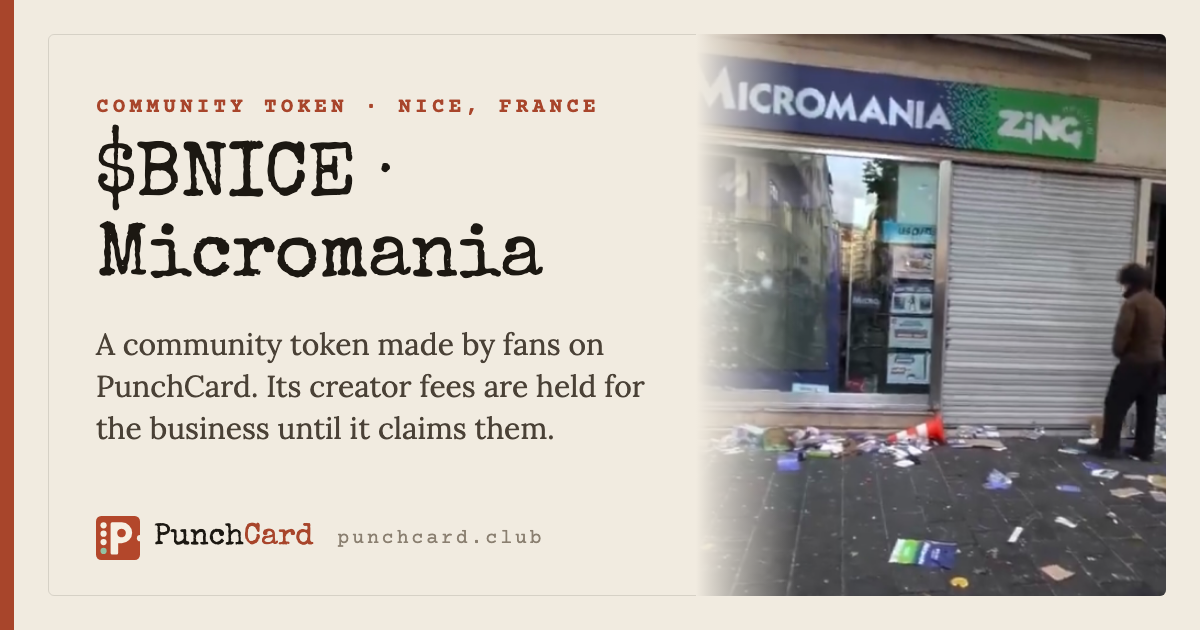
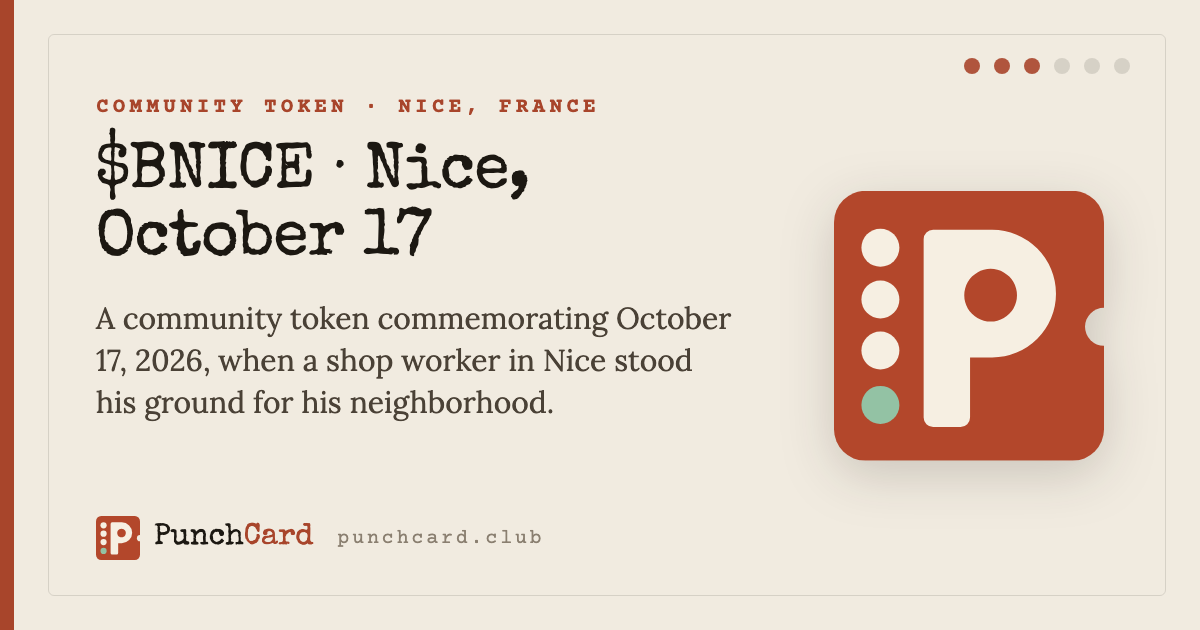
BNICE: commemorative page for October 17 in Nice (no names, brand or store photo); 'Part of this story?' contact instead of the claim button; softer title in lists and share card (#145)
Generic launchpad/token-stories.json lets a token show its own story instead of the business listing.

diff --git a/launchpad/biz-page.js b/launchpad/biz-page.js
@@ -33,10 +33,13 @@ async function load() {
   if (!/^[1-9A-HJ-NP-Za-km-z]{32,44}$/.test(mint)) { $('main').innerHTML = '<p class="notice bad">No token address in the link.</p>'; return; }
   let c;
   try { c = await api('/api/coins/' + mint); } catch (e) { $('main').innerHTML = `<p class="notice bad">${esc(e.message)}</p>`; return; }
-  const [prof, perkCfg] = await Promise.all([api(`/api/coins/${mint}/profile`).catch(() => ({})), api(`/api/perks?mint=${mint}`).catch(() => ({}))]);
+  const [prof, perkCfg, stories] = await Promise.all([api(`/api/coins/${mint}/profile`).catch(() => ({})), api(`/api/perks?mint=${mint}`).catch(() => ({})),
+    fetch('/launchpad/token-stories.json').then((r) => r.json()).catch(() => ({}))]);
+  // A commemorative token's own story (launchpad/token-stories.json): its title, story and owner note replace the business listing's.
+  const story = stories[mint] || null;
   if (!prof.record) { const v = await api(`/api/verify?mint=${mint}`).catch(() => null); if (v?.official) prof.record = v.record; } // older cached profiles
   const perks = perkCfg.perks || [], site = prof.site || null, host = site?.host || hostOf(c.business.website);
-  document.title = `${c.business.name} · ${c.coinName} ($${c.ticker}) — PunchCard`;
+  document.title = story ? `${story.title} ($${c.ticker}) — PunchCard` : `${c.business.name} · ${c.coinName} ($${c.ticker}) — PunchCard`;
   const st = statusOf(c), claimed = c.status === 'HandedOver' || c.status === 'Attested';
   // Tokens that share fees with holders: what holders have received and the next payout.
   const hp = c.holderPayouts?.next || null;
@@ -95,23 +98,29 @@ async function load() {
     ${removedNote}${retiredNote}${newNote}${firstBuyNote}
     <section class="cp-hero">
       <div>
-        <div class="cp-kicker">${c.business.city ? esc(c.business.city) + ' · ' : ''}${card ? 'Community token' : 'Community page'}</div>
-        <h1>${esc(c.business.name)}</h1>
-        <p class="cp-token">${c.coinName.trim().toLowerCase() === c.business.name.trim().toLowerCase() ? '' : esc(c.coinName) + ' · '}<b>$${esc(c.ticker)}</b></p>
-        ${c.description ? `<p class="cp-thanks">“${esc(c.description)}”</p>` : `<p class="cp-thanks">A thank-you to the people behind ${esc(c.business.name)}, from their community.</p>`}
+        <div class="cp-kicker">${story ? esc(story.kicker) : `${c.business.city ? esc(c.business.city) + ' · ' : ''}${card ? 'Community token' : 'Community page'}`}</div>
+        <h1>${esc(story ? story.title : c.business.name)}</h1>
+        <p class="cp-token">${story || c.coinName.trim().toLowerCase() === c.business.name.trim().toLowerCase() ? '' : esc(c.coinName) + ' · '}<b>$${esc(c.ticker)}</b></p>
+        ${story ? `<p class="cp-thanks">${esc(story.tagline)}</p>` : c.description ? `<p class="cp-thanks">“${esc(c.description)}”</p>` : `<p class="cp-thanks">A thank-you to the people behind ${esc(c.business.name)}, from their community.</p>`}
         <div class="cp-ctas">
           <a class="btn-primary sol" href="https://pump.fun/coin/${esc(mint)}" target="_blank" rel="noopener">Get $${esc(c.ticker)} on pump.fun</a>
           ${!card && c.business.website && !prof.brand ? `<a class="btn-secondary" href="${esc(c.business.website)}" target="_blank" rel="noopener">Visit ${esc(host || 'their site')}</a>` : ''}
           ${!card && prof.mapsUrl ? `<a class="btn-secondary" href="${esc(prof.mapsUrl)}" target="_blank" rel="noopener">Directions</a>` : ''}
         </div>
-        <div class="cp-badge">${claimed ? `<span class="pill owned">Business identity verified</span>` : `<span class="pill open">Made by the community</span><span>Own ${esc(c.business.name)}? <a href="/launchpad/claim/?mint=${esc(mint)}">Claim this page</a></span>`}${c.burnTier ? ' ' + honourPill(c.burnTier) : ''}${prof.record ? ` <a class="pill verified" href="https://solscan.io/account/${esc(prof.record)}" target="_blank" rel="noopener" title="This token's PunchCard record on Solana">Verified on Solana</a>` : ''}</div>
-      ${prof.brand ? `<p class="cp-brand-note">A commemorative community token, made by fans. Not affiliated with or endorsed by ${esc(c.business.name)} or its brand.</p>` : ''}
+        <div class="cp-badge">${claimed ? `<span class="pill owned">Business identity verified</span>` : story ? `<span class="pill open">Made by the community</span></div><div hidden>` : `<span class="pill open">Made by the community</span><span>Own ${esc(c.business.name)}? <a href="/launchpad/claim/?mint=${esc(mint)}">Claim this page</a></span>`}${c.burnTier ? ' ' + honourPill(c.burnTier) : ''}${prof.record ? ` <a class="pill verified" href="https://solscan.io/account/${esc(prof.record)}" target="_blank" rel="noopener" title="This token's PunchCard record on Solana">Verified on Solana</a>` : ''}</div>
+      ${story ? `<p class="cp-brand-note">${esc(story.note)}</p>` : ''}${!story && prof.brand ? `<p class="cp-brand-note">A commemorative community token, made by fans. Not affiliated with or endorsed by ${esc(c.business.name)} or its brand.</p>` : ''}
       </div>
-      <div class="cp-art"><img src="${API}/img/${esc(mint)}" alt="${esc(c.business.name)}" onerror="this.parentNode.style.display='none'"></div>
+      ${story?.hideArt ? '' : `<div class="cp-art"><img src="${API}/img/${esc(mint)}" alt="${esc(c.business.name)}" onerror="this.parentNode.style.display='none'"></div>`}
     </section>
-    ${card ? '' : ownStory || words}
+    ${story ? `<section class="cp-sec cp-story"><p class="cp-lbl">The story</p>${story.story.map((t) => `<p>${esc(t)}</p>`).join('')}</section>` : card ? '' : ownStory || words}
     ${tokenInfo}
-    ${card ? `<section class="cp-sec cp-owner">
+    ${story && !claimed ? `<section class="cp-sec cp-owner">
+      <p class="cp-lbl">Claims</p>
+      <h2>${esc(story.owner.heading)}</h2>
+      <p>${esc(story.owner.text)}${c.deadline ? ` Ownership must be verified by ${new Date(c.deadline * 1000).toLocaleString([], { month: 'short', day: 'numeric', year: 'numeric', hour: 'numeric', minute: '2-digit', timeZoneName: 'short' })}.` : ''}</p>
+      <div class="cp-ctas"><a class="btn-primary sol" href="mailto:hello@punchcard.club?subject=%24BNICE">Email PunchCard</a><a class="btn-secondary" href="/launchpad/owners/">How claiming works</a></div>
+    </section>` : ''}
+    ${card && !story ? `<section class="cp-sec cp-owner">
       <p class="cp-lbl">For the owner</p>
       <h2>Is this your business?</h2>
       <p>${esc(c.business.name)}’s community made this token as a thank-you. Its creator fees are being held for the business. Claim them, and this becomes your full page on PunchCard: your story, photos and perks for your customers.</p>
@@ -153,7 +162,7 @@ async function load() {
     </section>
     <section class="panel">
       <h2>Details</h2>
-      <p class="status-line">${esc(c.business.address || '')}${c.business.website && !prof.brand ? ` · <a href="${esc(c.business.website)}" target="_blank" rel="noopener">${esc(host)}</a>` : ''}</p>
+      <p class="status-line">${esc(story ? story.place : c.business.address || '')}${!story && c.business.website && !prof.brand ? ` · <a href="${esc(c.business.website)}" target="_blank" rel="noopener">${esc(host)}</a>` : ''}</p>
       <p class="status-line">Launched by <span class="mono">${esc(short(c.launcher))}</span>${c.launchedAt ? ' on ' + new Date(c.launchedAt * 1000).toLocaleDateString() : ''}${c.deadline && !claimed ? ` · claim deadline ${new Date(c.deadline * 1000).toLocaleString()}` : ''}</p>
       ${Number(c.launchBurnTokens || 0) > 0 ? `<p class="status-line">${ICONS.flame} <b>Fair launch:</b> the launcher's ${(c.firstBuyLamports / 1e9).toLocaleString()} SOL first buy was capped at 0.5% of the supply; <b>${Math.round(Number(c.launchBurnTokens) / 1e6).toLocaleString()} tokens were burned</b> at launch.${c.burnTier ? ` ${honourPill(c.burnTier)}` : ''}</p>` : ''}
       <div id="punchBurned"></div>

diff --git a/launchpad/latest.js b/launchpad/latest.js
@@ -15,17 +15,18 @@ const ago = (t) => {
   return d === 1 ? 'yesterday' : `${d} days ago`;
 };
 const shortCa = (m) => `${m.slice(0, 4)}…${m.slice(-4)}`;
-let SHORT = null;
+let SHORT = null, STORIES = {};
 
 function row(c) {
+  const st = STORIES[c.mint]; // commemorative tokens show their own title (launchpad/token-stories.json)
   const page = c.page ? c.page.replace(/^https:\/\/punchcard\.club/, '') : SHORT[c.mint] || `/launchpad/coin/?mint=${encodeURIComponent(c.mint)}`;
   const fresh = Math.floor(Date.now() / 1000) - c.launched_at < 86400;
   const tag = c.team ? '<span class="ll-tag sel">PunchCard Select</span>' : '<span class="ll-tag">Community</span>';
   return `<li class="ll-row">
     <a class="ll-main" href="${esc(page)}">
       <img src="${API}/img/${encodeURIComponent(c.mint)}" alt="" width="52" height="52" loading="lazy" onerror="this.onerror=null;this.src='/brand/punchcard.svg'">
-      <span class="ll-txt"><span class="ll-top"><b>$${esc(c.ticker)}</b> <span class="ll-name">${esc(c.coin_name || c.business_name)}</span></span>
-        <small>${esc(c.business_name)}${c.city ? ' · ' + esc(c.city) : ''}${c.country ? ', ' + esc(c.country) : ''}</small></span>
+      <span class="ll-txt"><span class="ll-top"><b>$${esc(c.ticker)}</b> <span class="ll-name">${esc(st ? st.listName : c.coin_name || c.business_name)}</span></span>
+        <small>${st ? esc(st.place) : `${esc(c.business_name)}${c.city ? ' · ' + esc(c.city) : ''}${c.country ? ', ' + esc(c.country) : ''}`}</small></span>
     </a>
     <span class="ll-meta">${fresh ? '<span class="ll-new">New</span>' : ''}${tag}<time data-t="${Number(c.launched_at)}">${ago(c.launched_at)}</time></span>
     <span class="ll-ca"><span class="ll-lbl">CA</span><code title="${esc(c.mint)}"><span class="ll-full">${esc(c.mint)}</span><span class="ll-short">${shortCa(c.mint)}</span></code><button type="button" class="ll-copy" data-ca="${esc(c.mint)}" aria-label="Copy the official CA for $${esc(c.ticker)}">Copy CA</button>
@@ -39,7 +40,8 @@ async function load() {
   const [{ coins = [] }, short] = await Promise.all([
     fetch(`${API}/api/coins?t=${Math.floor(Date.now() / 60000)}`).then((r) => r.json()).catch(() => ({})),
     SHORT ? Promise.resolve(SHORT) : fetch('/launchpad/short-links.json').then((r) => r.json()).catch(() => ({})),
-  ]);
+    fetch('/launchpad/token-stories.json').then((r) => r.json()).catch(() => ({})),
+  ]).then(([a, b, c]) => { STORIES = c; return [a, b]; });
   SHORT = short;
   const latest = coins.filter((c) => c.launched_at).sort((a, b) => b.launched_at - a.launched_at);
   if (!latest.length) return;

diff --git a/bnice/index.html b/bnice/index.html
@@ -3,21 +3,21 @@
 <head>
 <meta charset="UTF-8">
 <meta name="viewport" content="width=device-width, initial-scale=1.0">
-<title>$BNICE · Micromania — PunchCard</title>
-<meta name="description" content="A community token made by fans on PunchCard. Its creator fees are held for the business until it claims them.">
+<title>$BNICE · Nice, October 17 — PunchCard</title>
+<meta name="description" content="A community token commemorating October 17, 2026, when a shop worker in Nice stood his ground for his neighborhood.">
 <meta property="og:type" content="website">
 <meta property="og:site_name" content="PunchCard">
 <meta property="og:url" content="https://punchcard.club/bnice/">
-<meta property="og:title" content="$BNICE · Micromania — PunchCard">
-<meta property="og:description" content="A community token made by fans on PunchCard. Its creator fees are held for the business until it claims them.">
+<meta property="og:title" content="$BNICE · Nice, October 17 — PunchCard">
+<meta property="og:description" content="A community token commemorating October 17, 2026, when a shop worker in Nice stood his ground for his neighborhood.">
 <meta property="og:image" content="https://punchcard.club/og/bnice.png">
 <meta property="og:image:width" content="1200">
 <meta property="og:image:height" content="630">
-<meta property="og:image:alt" content="$BNICE · Micromania — a community token on PunchCard">
+<meta property="og:image:alt" content="$BNICE · Nice, October 17 — a community token on PunchCard">
 <meta name="twitter:card" content="summary_large_image">
 <meta name="twitter:site" content="@punchcard_club">
-<meta name="twitter:title" content="$BNICE · Micromania — PunchCard">
-<meta name="twitter:description" content="A community token made by fans on PunchCard. Its creator fees are held for the business until it claims them.">
+<meta name="twitter:title" content="$BNICE · Nice, October 17 — PunchCard">
+<meta name="twitter:description" content="A community token commemorating October 17, 2026, when a shop worker in Nice stood his ground for his neighborhood.">
 <meta name="twitter:image" content="https://punchcard.club/og/bnice.png">
 <meta http-equiv="refresh" content="0; url=/launchpad/coin/?mint=CNfzT1Ha63GTeJ99N9ii73HzCwyLUTXj3mbiwCyvtZD3">
 <meta name="robots" content="noindex">

diff --git a/launchpad/community.js b/launchpad/community.js
@@ -11,19 +11,20 @@ const until = (t) => {
   return d ? `${d}d ${h}h` : h ? `${h}h ${m}m` : `${m}m`;
 };
 
-let SHORT = {}; // mint -> short link (launchpad/short-links.json)
+let SHORT = {}, STORIES = {}; // mint -> short link (launchpad/short-links.json); commemorative titles (token-stories.json)
 function card(c) {
   const badge = c.claimed ? '<span class="sel-badge ok">Community-launched · Claimed by the owner</span>' : '<span class="sel-badge">Community-launched · Unclaimed</span>';
   return `<a class="sel-card" href="${esc(c.page ? c.page.replace(/^https:\/\/punchcard\.club/, '') : SHORT[c.mint] || `/launchpad/coin/?mint=${encodeURIComponent(c.mint)}`)}">
     <img src="${API}/img/${encodeURIComponent(c.mint)}" alt="" width="64" height="64" loading="lazy" onerror="this.onerror=null;this.src='/brand/punchcard.svg'">
-    <span><b>${esc(c.ticker)} · ${esc(c.business_name)}</b><small>${esc([c.city, c.country].filter(Boolean).join(', '))}</small>${badge}
+    <span><b>${esc(c.ticker)} · ${esc(STORIES[c.mint]?.listName || c.business_name)}</b><small>${esc(STORIES[c.mint]?.place || [c.city, c.country].filter(Boolean).join(', '))}</small>${badge}
     <small class="sel-stats">${c.holders ? `${Number(c.holders).toLocaleString()} holders` : 'New'}${Number(c.feesGeneratedLamports) > 0 ? ` · ${(Number(c.feesGeneratedLamports) / 1e9).toFixed(2)} SOL in creator fees` : ''}${c.burnTier ? ` · ${honourPill(c.burnTier)}` : ''}</small></span></a>`;
 }
 
 async function communityLists() {
   const lists = document.querySelectorAll('[data-community-list]');
   if (!lists.length) return;
-  const [{ coins = [] }, short] = await Promise.all([fetch(`${API}/api/coins`).then((r) => r.json()).catch(() => ({})), fetch('/launchpad/short-links.json').then((r) => r.json()).catch(() => ({}))]);
+  const [{ coins = [] }, short] = await Promise.all([fetch(`${API}/api/coins`).then((r) => r.json()).catch(() => ({})), fetch('/launchpad/short-links.json').then((r) => r.json()).catch(() => ({})),
+    fetch('/launchpad/token-stories.json').then((r) => r.json()).catch(() => ({}))]).then(([a, b, c]) => { STORIES = c; return [a, b]; });
   SHORT = short;
   // Blaze and Inferno launches (2+ SOL committed to the burn) get top placement; then by holders.
   const top = (c) => (c.burnTier?.rank >= 3 ? c.burnTier.rank : 0);

diff --git a/launchpad/biz-page.css b/launchpad/biz-page.css
@@ -62,3 +62,4 @@
 .cp-page .stats { grid-template-columns: repeat(auto-fit, minmax(min(100%, 170px), 1fr)); }
 .cp-page .stat small + b + small { display: block; margin-top: .15rem; }
 
+.cp-story p { margin: 0; font-family: 'Lora', serif; font-size: 1.08rem; line-height: 1.7; max-width: 62ch; }
